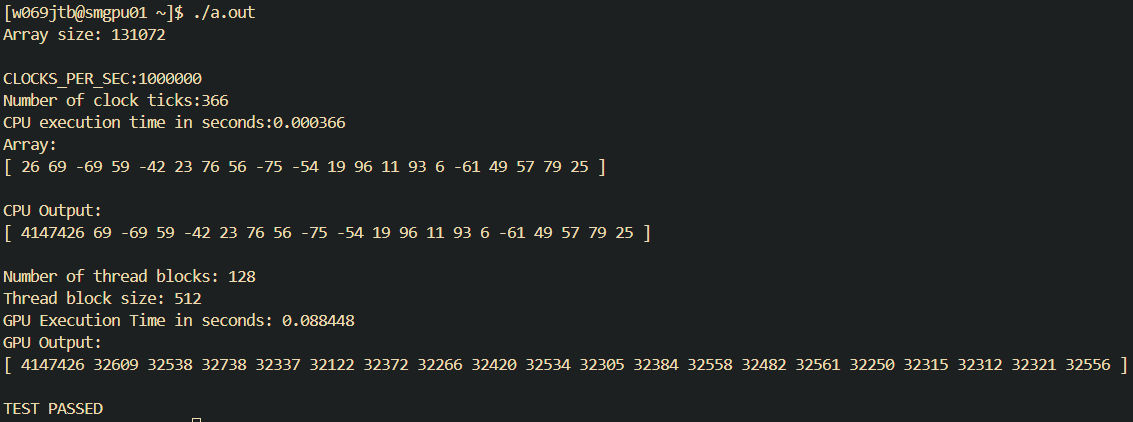
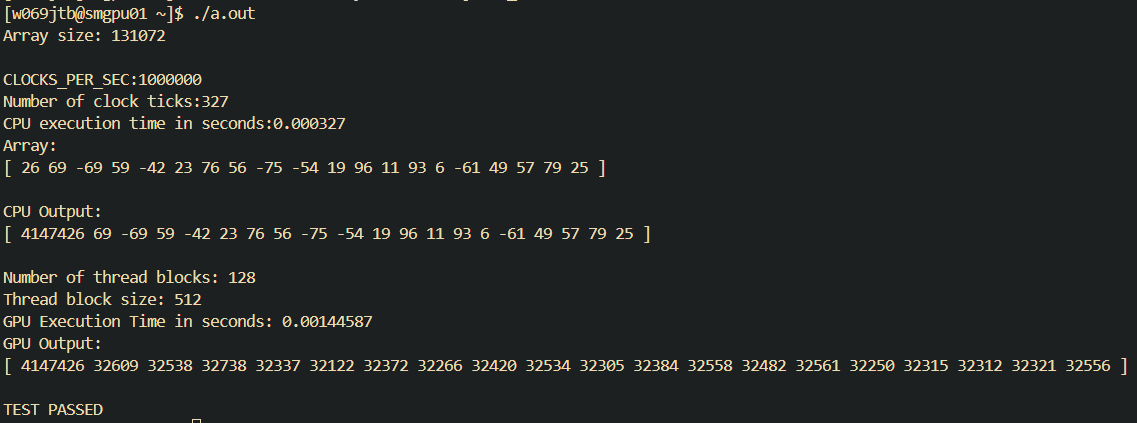
report and images

diff --git a/Brickler-Ivery-Paxson_Project3/Brickler-Ivery-Paxson_report.md b/Brickler-Ivery-Paxson_Project3/Brickler-Ivery-Paxson_report.md
@@ -9,30 +9,26 @@ Professor Meilin Liu
 
 ### Report
 For this lab, we were able to get our code fully functional and working. We executed the code using the following commands:
-`nvcc Project3_Task1.cu -o Project 3_Task1 && ./Project3_Task1.out`
-`nvcc Project3_Task2.cu -o Project3_Task2 && ./Project3_Task2.out`
+`nvcc Brickler-Ivery-Paxson-Project3_Task1.cu -o Project 3_Task1 && ./Project3_Task1.out`
+`nvcc Brickler-Ivery-Paxson-Project3_Task2.cu -o Project3_Task2 && ./Project3_Task2.out`
 
 ### Task 1 Runtime Table
 
-Time | 131072  | 1024 * 1024 | 4096 * 4096
+Time | 131072  | 1048576  | 16777216
 -----|-----------|-------------|-------------|
-CPU Comp Time (s) | 0.011143 | 5.552852 | 1196.504552 |
-GPU Comp Time (ms) | 0.075584 (Tile width of 8) / 0.06752 (Tile width of 16) | 6.23139 (Tile width of 8) / 5.28634 (Tile width of 16) | 388.023 (Tile width of 8) / 286.391 (Tile width of 16) / 203.53 (Tile width of 32) |
-Speedup | -85% / -84% | -10% / 5% | 208% / 318%
+CPU Comp Time (s) | 0.000366 | 0.002610 | 0.041925 |
+GPU Comp Time (s) | 0.00144587 | 0.00343467 | 0.0362523
+Speedup | -75.7% | -24.0% |  115% |
 
-### Execution Results
+### Execution Results - Task 1
 131072 Length array with block size of 512
 
 ![8*8 matrix with a tile width of 4](./images/Task1_Test1.png)
 
-128*128 matrix with a tile width of 8:
+1048576 Length array with block size of 512 
 
-![128*128 matrix with a tile width of 8](./images/128matrix-8tile-output.png)
+![128*128 matrix with a tile width of 8](./images/Task1_Test2.png)
 
-1024*1024 matrix with a tile width of 16:
+16777216 Length array with block size of 512 
 
-![1024*1024 matrix with a tile width of 16](./images/1024matrix-16tile-output.JPG)
-
-4096*4096 matrix with a tile width of 32 (had to zoom out a lot to capture a screenshot, but TEST PASSED can still be seen at the bottom of the image, and a textfile version of this output can be found in the [output-files folder](./output-files/4096matrix-32tile-output.txt)):
-
-![4096*4096 matrix with a tile width of 32](./images/4096matrix-32tile-outtput.JPG)
+![128*128 matrix with a tile width of 8](./images/Task1_Test3.png)
